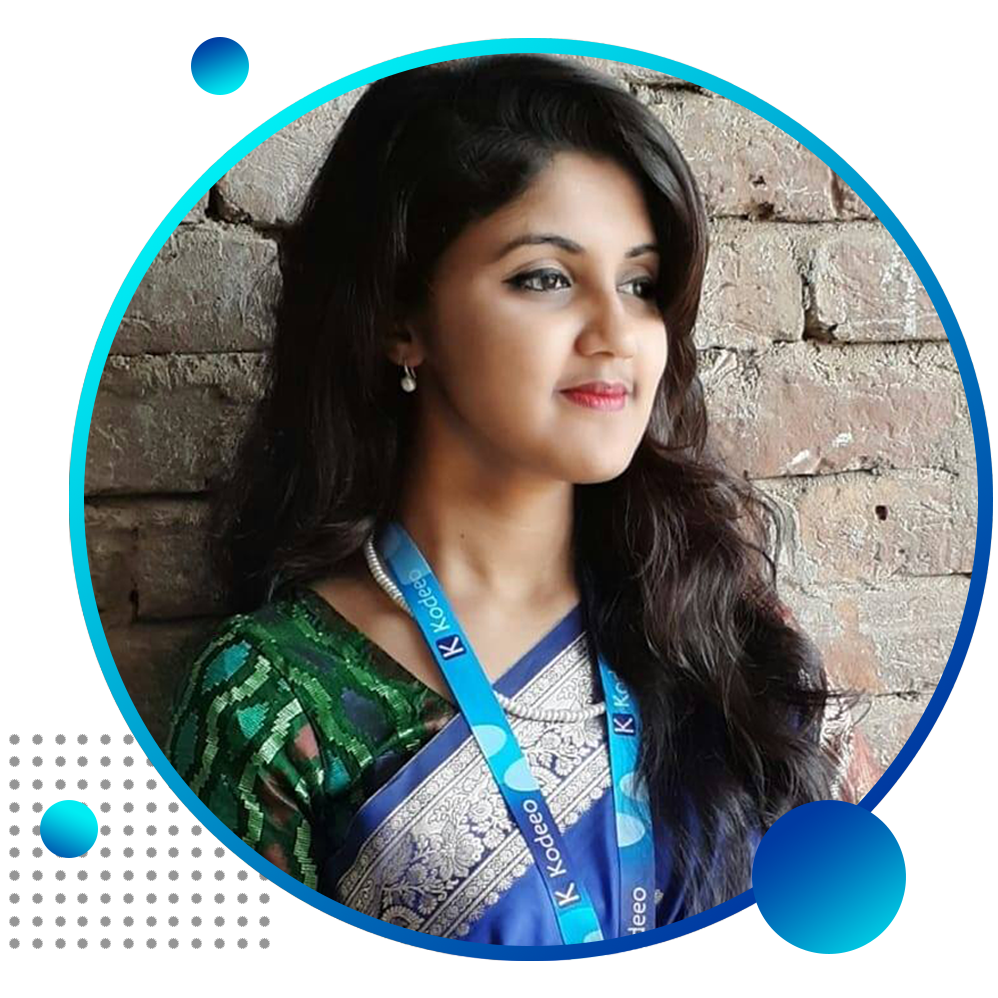
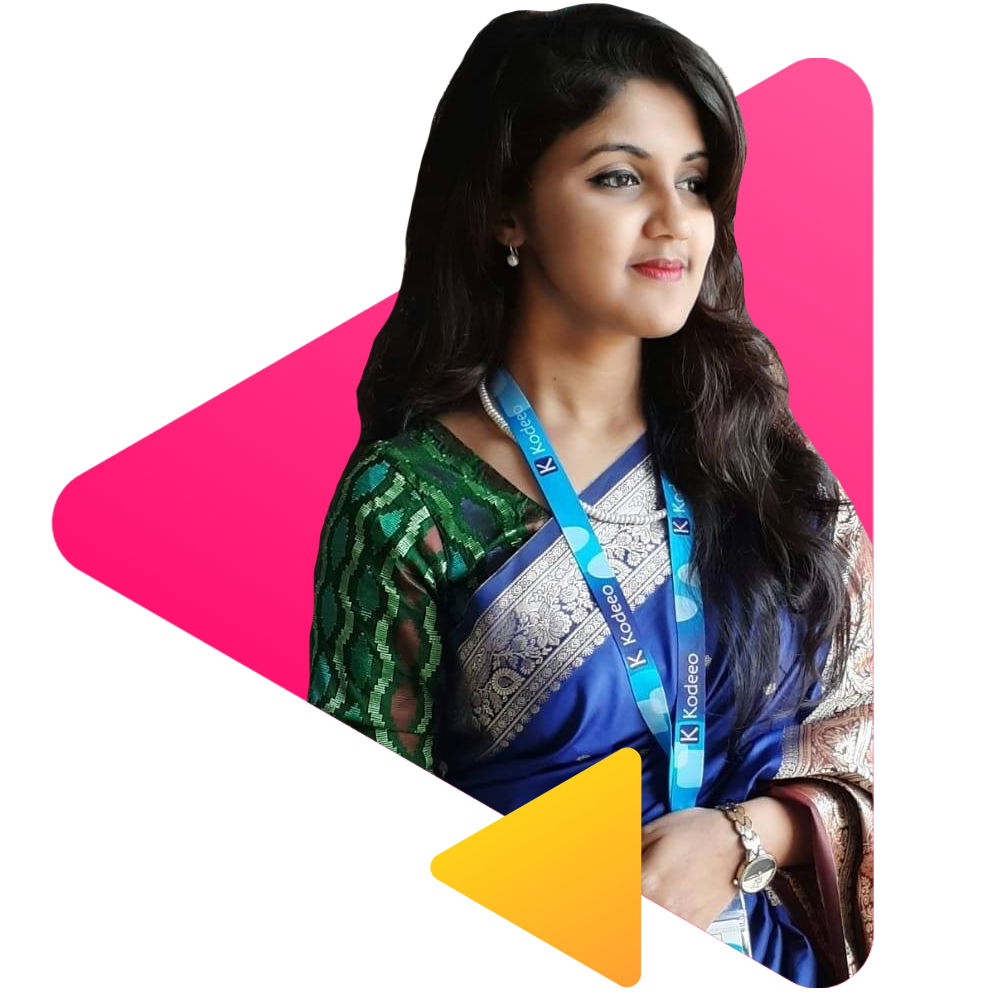
footer

diff --git a/index.html b/index.html
@@ -5,52 +5,86 @@
     <meta name="viewport"
           content="width=device-width, user-scalable=no, initial-scale=1.0, maximum-scale=1.0, minimum-scale=1.0">
     <meta http-equiv="X-UA-Compatible" content="ie=edge">
-    <title>Sadia Akter</title>
+    <title>Sadia | Portfolio</title>
     <!--Css Link-->
     <link rel="stylesheet" href="style.css">
     <!--Google Fonts Link-->
-    <link href="https://fonts.googleapis.com/css2?family=Poppins&display=swap" rel="stylesheet">
-    <link rel="shortcut icon" href="images/fevicon.png">
+    <link href="https://fonts.googleapis.com/css2?family=Poppins:ital,wght@0,100;0,200;0,300;0,400;0,500;0,600;0,700;0,800;0,900;1,100;1,200;1,300;1,400;1,500;1,600;1,700;1,800;1,900&display=swap"
+          rel="stylesheet">
+    <link rel="shortcut icon" href="images/favicon.png">
 
 </head>
 <body>
-<!--top-banner-->
-<section class="top-banner">
-    <div class="half-width">
-<!--        <h2>Hello I'm</h2>-->
+<!--intro-->
+<section class="intro-section">
+    <div class="half-width content">
         <h1>Hello I'm <br>
             <span class="name-highlight">Sadia Akter</span>
         </h1>
-        <h3>Professional Web Developer</h3>
         <p> Hi There, I’m Sadia and I am a Back-End Web Developer. It's been 1 year, I’m working as a web developer at
-            Kodeeo. I have done my graduation in Computer Science & Engineering. </p>
-        <a target="_blank" class="link-button" href="https://www.linkedin.com/in/tanjinabp28/"> Hire Me</a>
+            Kodeeo. </p>
+        <br>
+        <a target="_blank" class="link-button" href="https://www.linkedin.com/in/tanjinabp28/">Hire Me</a>
     </div>
     <div class="half-width">
-        <img src="images/3.png" alt="">
+        <img src="images/1.png" alt="">
     </div>
 </section>
 
-<!-- dream-area-->
-<section class="dream-area">
+<!--Biography-->
+<section class="biography-section">
     <div class="half-width">
         <img src="images/2.png" alt="">
     </div>
-    <div class="half-width">
-        <h2>Big Dream</h2>
-        <h3>Become Full Stack Web Developer</h3>
+    <div class="half-width content">
+        <h2>Biography</h2>
         <p>I'm also learning Front-End Development and looking forward to being a Full Stack Web Developer.
+            I have done my graduation in Computer Science & Engineering.
             <br>
             Please Checkout my GitHub link for my project.</p>
+        <br>
         <a target="_blank" class="link-button" href="https://github.com/sadiaakter28">GitHub</a>
     </div>
 </section>
 
-<footer>
-    <p>
-        Sadia 2020 | All Rights Reserved
+<!--My Latest Work-->
+<section class="work-section">
+    <h2 class="sub-title">My Latest Work</h2>
+    <div class="work-sample">
+        <img src="images/latest-work/work-1.png" alt="">
+    </div>
+    <div class="work-sample">
+        <img src="images/latest-work/work-2.jpg" alt="">
+    </div>
+    <div class="work-sample">
+        <img src="images/latest-work/work-3.jpg" alt="">
+    </div>
+</section>
+
+<!--What Client are say-->
+<section class="client-section">
+    <div class="client-content">
+        <h2 class="sub-title">What Client are say</h2>
+        <h3 class="sub-title">Bruce Moccy</h3>
+        <p class="designation">
+            Founder & CEO Alies
+        </p>
+        <h4>"Lorem ipsum dolor sit amet, consectetur adipisicing elit. Doloribus ea, eos eveniet harum illo illum
+            inventore."</h4>
+    </div>
+    <div class="msg">
+        <h4>Leave me a message in the</h4>
+        <h3>programming.hero1@gmail.com</h3>
+    </div>
+</section>
+
+<!--Footer-->
+<footer class="footer-section">
+    <p class="footer">
+        Programming Hero Initiative. © 2020 All rights reserved.
+        <br>
+        <span class="bottom-line">Hand-crafted & made with❤❤</span>
     </p>
 </footer>
-
 </body>
 </html>

diff --git a/style.css b/style.css
@@ -2,20 +2,27 @@ body{
     margin: 0;
     font-family: 'Poppins', sans-serif;
 }
-.name-highlight{
-    color: #dc0144;
-    font-size: 50px;
-    font-weight: bolder;
+h1{
+    font-size: 42px;
+    font-weight: 500;
 }
 h2{
-    font-size: 40px;
+    font-size: 38px;
+    font-weight: 500;
 }
 p{
     color: dimgray;
 }
 section{
-    height: 500px;
+    height: 550px;
     padding: 100px;
+}
+
+/*----intro-section----*/
+.intro-section{
+    background-image: url("images/header-bg.png");
+    background-repeat: no-repeat;
+    background-size: cover;
 }
 .half-width{
     width: 40%;
@@ -23,35 +30,120 @@ section{
     margin-left: 5%;
     padding-left: 2%;
 }
-.top-banner{
-    background-image: url("images/header-bg.png");
-    background-repeat: no-repeat;
+.half-width.content {
+    padding-top: 8%;
+}
+.name-highlight{
+    color: #ff1671;
+    font-size: 50px;
+    font-weight: 700;
+}
+.link-button{
+    text-decoration: none;
+    background-image: linear-gradient(45deg, #ff1671, #ff5096) ;
+    padding: 8px 40px;
+    border-radius: 5px;
+    color: white;
+    font-weight: 500;
 }
 .half-width img{
     width: 100%;
 }
-.link-button{
-    text-decoration: none;
-    background-image: linear-gradient(45deg, lightsalmon, tomato) ;
-    padding: 8px 30px;
-    border-radius: 5px;
-    color: white;
-    font-weight: 700;
+
+h4{
+    font-weight: normal;
+}
+.msg h3{
+    font-weight: 600;
 }
 
+/*----Biography----*/
+.biography-section{
+    background-image: url("images/biography-bg.png");
+    background-repeat: no-repeat;
+    background-size: cover;
+}
 
-
-
-
-
-
-
-
-
-
-
-/*footer*/
-footer{
+/*----My Latest Work----*/
+.work-section{
+    background-image: url("images/latest-work-bg.png");
+    background-repeat: no-repeat;
+    background-size: cover;
+}
+section.work-section{
+    height: 450px;
+    padding: 100px;
+}
+.sub-title{
     text-align: center;
-    font-size: 14px;
 }
+.work-sample img{
+    width: 30%;
+    float: left;
+    margin: 3% 0 0 3%;
+}
+
+/*----What Client are say----*/
+.client-section{
+    background-image: url("images/footer-bg.png");
+    background-repeat: no-repeat;
+    background-size: cover;
+}
+.client-content{
+    text-align: center;
+    margin: 0 28% 5% 28% ;
+}
+h3.sub-title{
+    font-weight: 500;
+    margin-bottom: 0;
+}
+.designation{
+    font-size: 14px;
+    margin-top: 5px;
+}
+.msg{
+    text-align: center;
+    background-image: linear-gradient(45deg, #ff1671, #ff5096) ;
+    padding: 15px 40px;
+    margin: auto;
+    width: 600px;
+    border-radius: 10px;
+    color: white;
+}
+
+/*----footer----*/
+.footer-section{
+    background-image: linear-gradient(45deg,  #79ffe8, #fb84b4) ;
+    padding: 15px 40px;
+    margin: auto;
+}
+.footer{
+    color: white;
+    text-align: center;
+}
+.bottom-line{
+    color: dimgrey;
+}
+
+
+
+
+
+
+
+
+
+
+
+
+
+
+
+
+
+
+
+
+
+
+
